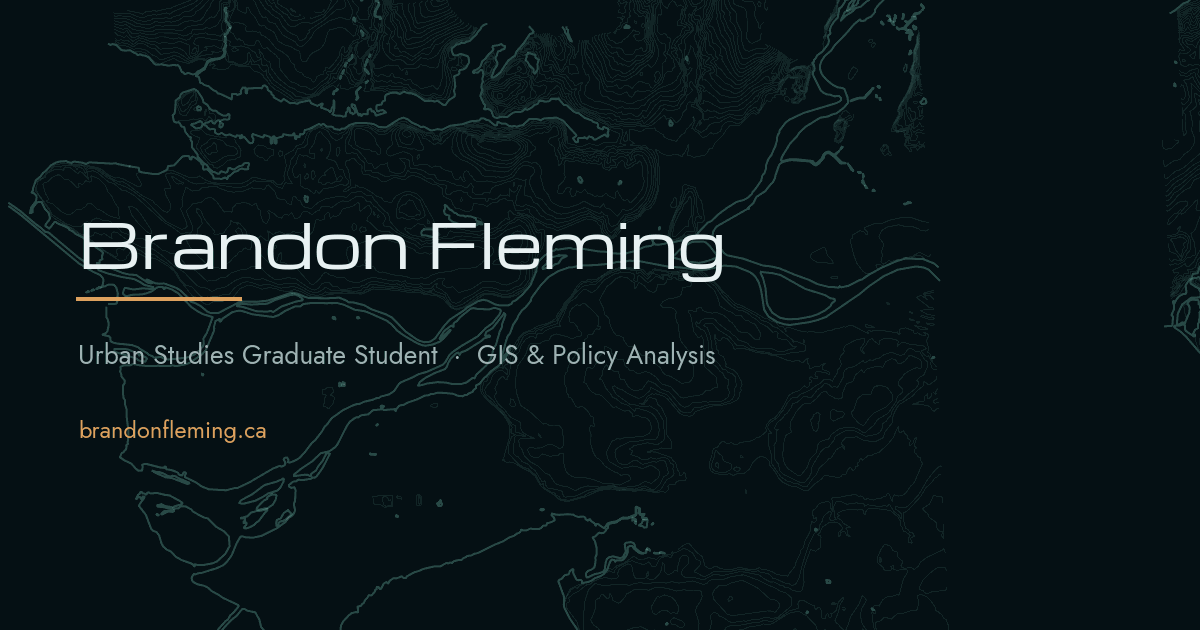
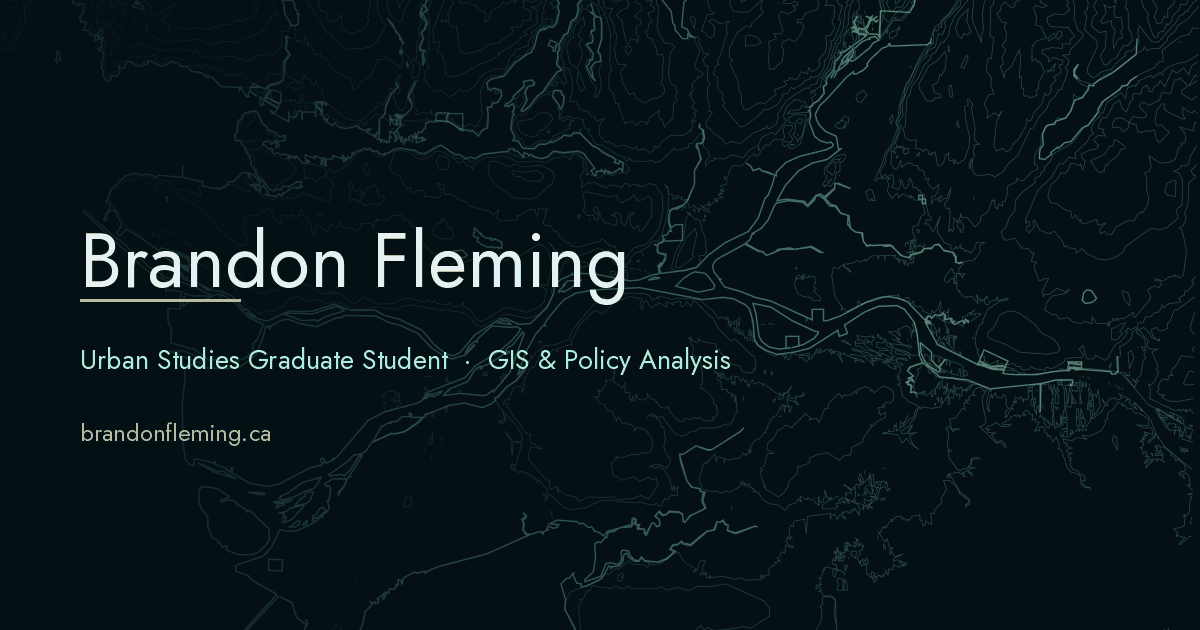
Regenerate the link-preview card from the current plate; consolidate the to-do list

diff --git a/HANDOFF.md b/HANDOFF.md
@@ -46,6 +46,27 @@ programmer; he built the first version with an LLM. He *is* strong at GIS
    reachable at `/tracker/` and absent from the nav. 26 candidates collected from
    6 sources, 3 annotated. It runs unattended on Fridays and messages Telegram.
    See `TRACKER-HANDOFF.md`.
+3. **Two pages sit finished at `draft = true`**, waiting on Brandon rather than
+   on any more building:
+   - `content/colophon.md` — explains the contour plate. Needs a read-through
+     and the last section put in his voice. Add a footer link when it ships.
+   - `content/work/affordability-calculator.md` — a working pro forma. The
+     model is verified; the *inputs* are plausible guesses I chose. The list of
+     figures needed is in a comment at the bottom of that file. The two that
+     matter most are Newton and Fleetwood renter median household income, 2021
+     Census, dissemination-area level: with those it gets a preset per
+     neighbourhood instead of one generic slider.
+4. **Smaller, none urgent:**
+   - Four photographs have no `place` set: `lake-camp`, `milky-way`,
+     `balanced-stones`, `driftwood`. Their captions are also mine, not his.
+   - Two tracker notes end with sentences I wrote. He meant to replace them.
+   - The résumé still says "GIS spatial analysis of corporate land assembly",
+     which thesis proposal 2.1 demoted to a stretch goal.
+   - `HUGO_VERSION` in Cloudflare is `0.147.7`; his laptop runs `0.164`. It
+     builds today, but that gap is the usual cause of works-locally-fails-live.
+   - `static/fonts/Basteleur-*.woff2` are 92 KB of typeface nothing references.
+   - The portrait on the About page is 459px wide, below the 600px the template
+     would like. It is no longer upscaled, but a larger original would sharpen it.
 
 ---
 
